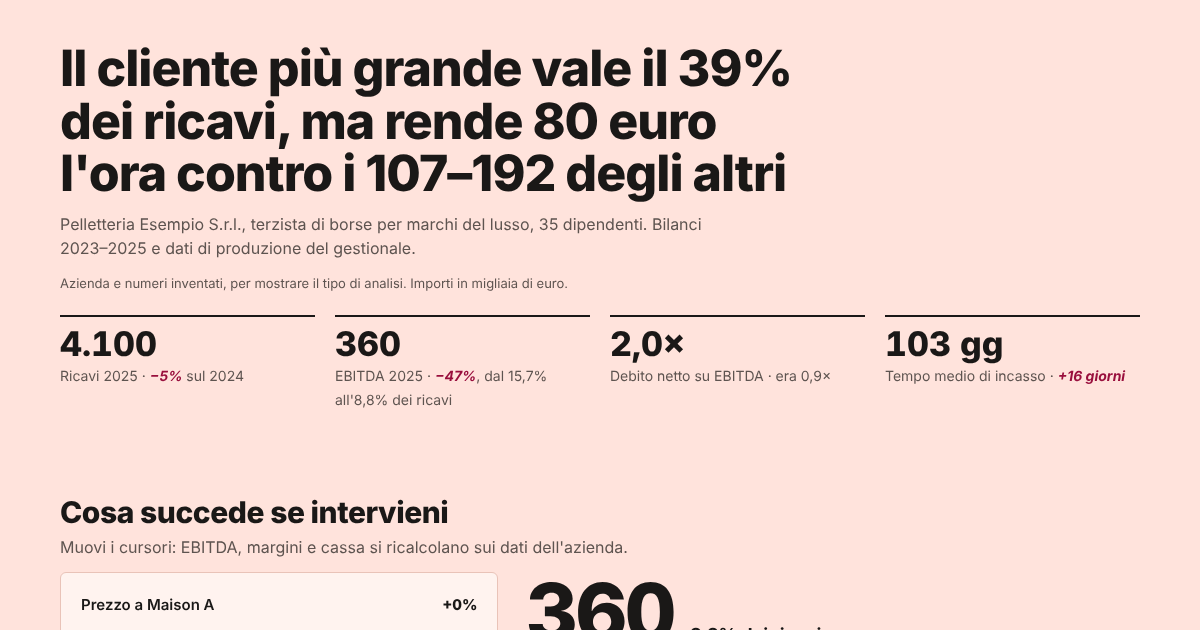
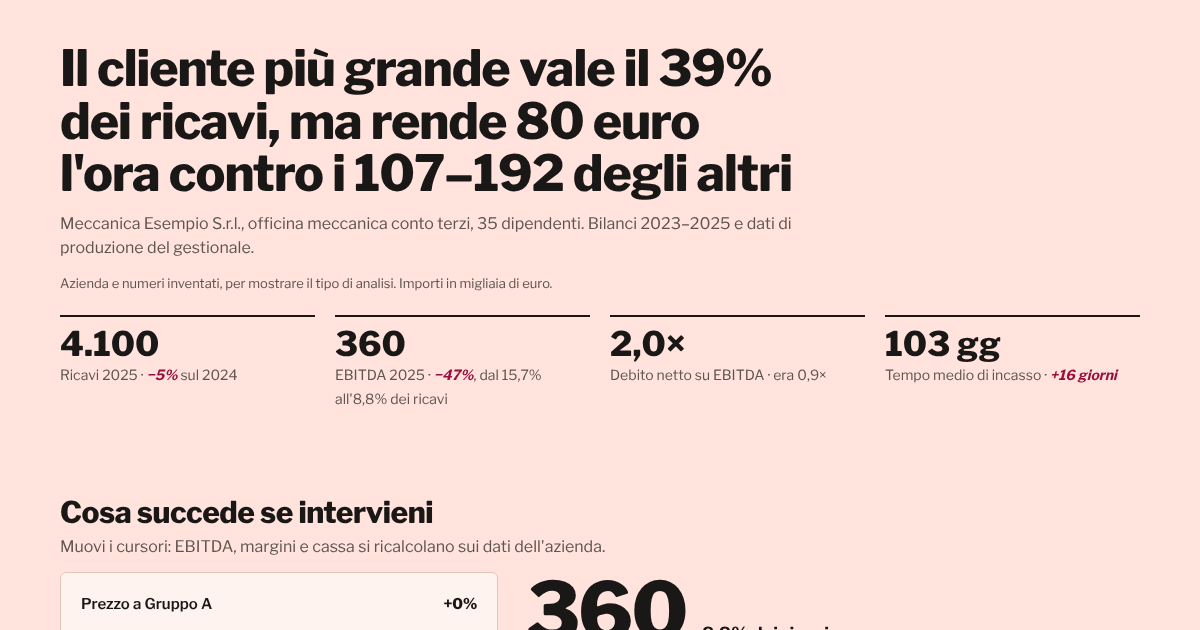
Caso di esempio nel settore meccanico, carattere ospitato sul sito, esperienza in Chi sono
Claude-Session: https://claude.ai/code/session_015bM9w7AcepfwbXi2hyZ8Sh

diff --git a/index.html b/index.html
@@ -12,8 +12,7 @@
 <meta name="author" content="Andrea Milaneschi">
 
 <title>Cruscotto marginalità PMI</title>
-<link rel="preconnect" href="https://fonts.googleapis.com">
-<link href="https://fonts.googleapis.com/css2?family=Libre+Franklin:wght@400;500;700;800&display=swap" rel="stylesheet">
+<link rel="stylesheet" href="https://andrea-milaneschi.github.io/fonts/libre-franklin.css">
 <style>
 /* VOICE work: a controller's dashboard shown to a business owner, newspaper graphics-desk standard
    IDEA the financial page of a newspaper that you can change: the finding as headline, then a live what-if desk
@@ -122,7 +121,7 @@ tr.tot td{font-weight:800}
 <body>
 <header class="band"><div class="wrap">
 <h1>Il cliente più grande vale il 39% dei ricavi, ma rende 80 euro l'ora contro i 107–192 degli altri</h1>
-<p class="sub">Pelletteria Esempio S.r.l., terzista di borse per marchi del lusso, 35 dipendenti. Bilanci 2023–2025 e dati di produzione del gestionale.</p>
+<p class="sub">Meccanica Esempio S.r.l., officina meccanica conto terzi, 35 dipendenti. Bilanci 2023–2025 e dati di produzione del gestionale.</p>
 <p class="sample">Azienda e numeri inventati, per mostrare il tipo di analisi. Importi in migliaia di euro.</p>
 <div class="kpis">
 <div class="kpi"><b>4.100</b><span>Ricavi 2025 · <em class="neg">−5%</em> sul 2024</span></div>
@@ -137,8 +136,8 @@ tr.tot td{font-weight:800}
 <p class="sub">Muovi i cursori: EBITDA, margini e cassa si ricalcolano sui dati dell'azienda.</p>
 <div class="desk">
 <div class="panel" id="controlli">
-<div class="ctl"><label for="price">Prezzo a Maison A <output id="o-price"></output></label><input type="range" id="price" min="0" max="15" step="1" value="0"><small>Aumento del listino al prossimo rinnovo</small></div>
-<div class="ctl"><label for="hours">Ore dirette su Maison A <output id="o-hours"></output></label><input type="range" id="hours" min="0" max="25" step="1" value="0"><small>Meno scarti, rilavorazioni e tempi di attrezzaggio</small></div>
+<div class="ctl"><label for="price">Prezzo a Gruppo A <output id="o-price"></output></label><input type="range" id="price" min="0" max="15" step="1" value="0"><small>Aumento del listino al prossimo rinnovo</small></div>
+<div class="ctl"><label for="hours">Ore dirette su Gruppo A <output id="o-hours"></output></label><input type="range" id="hours" min="0" max="25" step="1" value="0"><small>Meno scarti, rilavorazioni e tempi di attrezzaggio</small></div>
 <div class="ctl"><label for="days">Giorni medi di incasso <output id="o-days"></output></label><input type="range" id="days" min="60" max="120" step="1" value="103"><small>Oggi 103; nel 2024 erano 87</small></div>
 <div class="ctl"><label for="fixed">Costi fissi <output id="o-fixed"></output></label><input type="range" id="fixed" min="-10" max="10" step="1" value="0"><small>Personale indiretto, servizi generali, affitti (oggi 920)</small></div>
 <div class="btns"><button type="button" id="p-now" aria-pressed="true">Situazione 2025</button><button type="button" id="p-plan" aria-pressed="false">Piano consigliato</button></div>
@@ -150,7 +149,7 @@ tr.tot td{font-weight:800}
 <h3 style="margin:0 0 6px;font-size:17px">Ricavo per ora di lavoro diretto, per cliente</h3>
 <div id="clients"></div>
 <div class="minis">
-<div><b id="m-mdc">20,6%</b>Margine di Maison A</div>
+<div><b id="m-mdc">20,6%</b>Margine di Gruppo A</div>
 <div><b id="m-bep">3.472</b>Ricavi di pareggio</div>
 <div><b id="m-cash">0</b>Cassa liberata dagli incassi</div>
 </div>
@@ -173,7 +172,7 @@ tr.tot td{font-weight:800}
 </div></section>
 
 <section class="band alt" id="clienti"><div class="wrap">
-<h2>Maison A usa metà delle ore per il 39% dei ricavi</h2>
+<h2>Gruppo A usa metà delle ore per il 39% dei ricavi</h2>
 <div class="legend"><span><i style="background:var(--quiet)"></i>Materiali</span><span><i style="background:var(--teal)"></i>Lavorazioni esterne</span><span><i style="background:var(--ink)"></i>Lavoro diretto</span><span><i style="background:var(--claret)"></i>Margine</span></div>
 <div class="scroll"><table id="t-cli"></table></div>
 </div></section>
@@ -251,7 +250,7 @@ const fmt=v=>nf.format(Math.round(v));
 const sgn=v=>(v>0?'+':v<0?'−':'')+fmt(Math.abs(v));
 const $=id=>document.getElementById(id);
 const esc=s=>String(s).replace(/[&<>"']/g,c=>({'&':'&amp;','<':'&lt;','>':'&gt;','"':'&quot;',"'":'&#39;'}[c]));
-const CL=[{n:'Maison A',r:1600,m:300,e:330,l:640},{n:'Maison B',r:1000,m:200,e:160,l:300},{n:'Brand C',r:700,m:140,e:100,l:190},{n:'Brand D',r:500,m:110,e:70,l:120},{n:'Altri clienti',r:300,m:70,e:40,l:50}];
+const CL=[{n:'Gruppo A',r:1600,m:300,e:330,l:640},{n:'Gruppo B',r:1000,m:200,e:160,l:300},{n:'Cliente C',r:700,m:140,e:100,l:190},{n:'Cliente D',r:500,m:110,e:70,l:120},{n:'Altri clienti',r:300,m:70,e:40,l:50}];
 const RATE=32,FIX=920,AMM=165,CRED=4100*103/365,BASE=360;
 const CE=[['Ricavi',3800,4300,4100],['Materie prime e accessori',-684,-817,-820],['Servizi e lavorazioni esterne',-836,-989,-1004],['Godimento beni di terzi',-120,-120,-125],['Valore aggiunto',2160,2374,2150,1],['Costo del personale',-1550,-1700,-1790],['EBITDA',610,674,360,1],['Ammortamenti',-140,-150,-165],['EBIT',470,524,196,1],['Oneri finanziari',-40,-55,-72],['Imposte',-116,-127,-33],['Utile netto',314,342,90,1]];
 const tip=$('tip');

diff --git a/README.md b/README.md
@@ -8,7 +8,7 @@ Esempio interattivo dell'analisi che realizzo per le piccole e medie imprese man
 
 ## Il caso
 
-Pelletteria Esempio S.r.l., terzista di borse per marchi del lusso con 35 dipendenti. Azienda e numeri sono inventati, ma costruiti con proporzioni realistiche per il settore.
+Meccanica Esempio S.r.l., officina meccanica conto terzi con 35 dipendenti. Azienda e numeri sono inventati, ma costruiti con proporzioni realistiche per il settore.
 
 Nel 2025 i ricavi calano del 5% e l'EBITDA quasi si dimezza, da 674 a 360 mila euro. L'analisi per cliente mostra il motivo: il cliente principale vale il 39% dei ricavi ma assorbe il 49% delle ore di produzione, e rende 80 euro per ora di lavoro diretto contro i 107–192 euro degli altri clienti.
 
